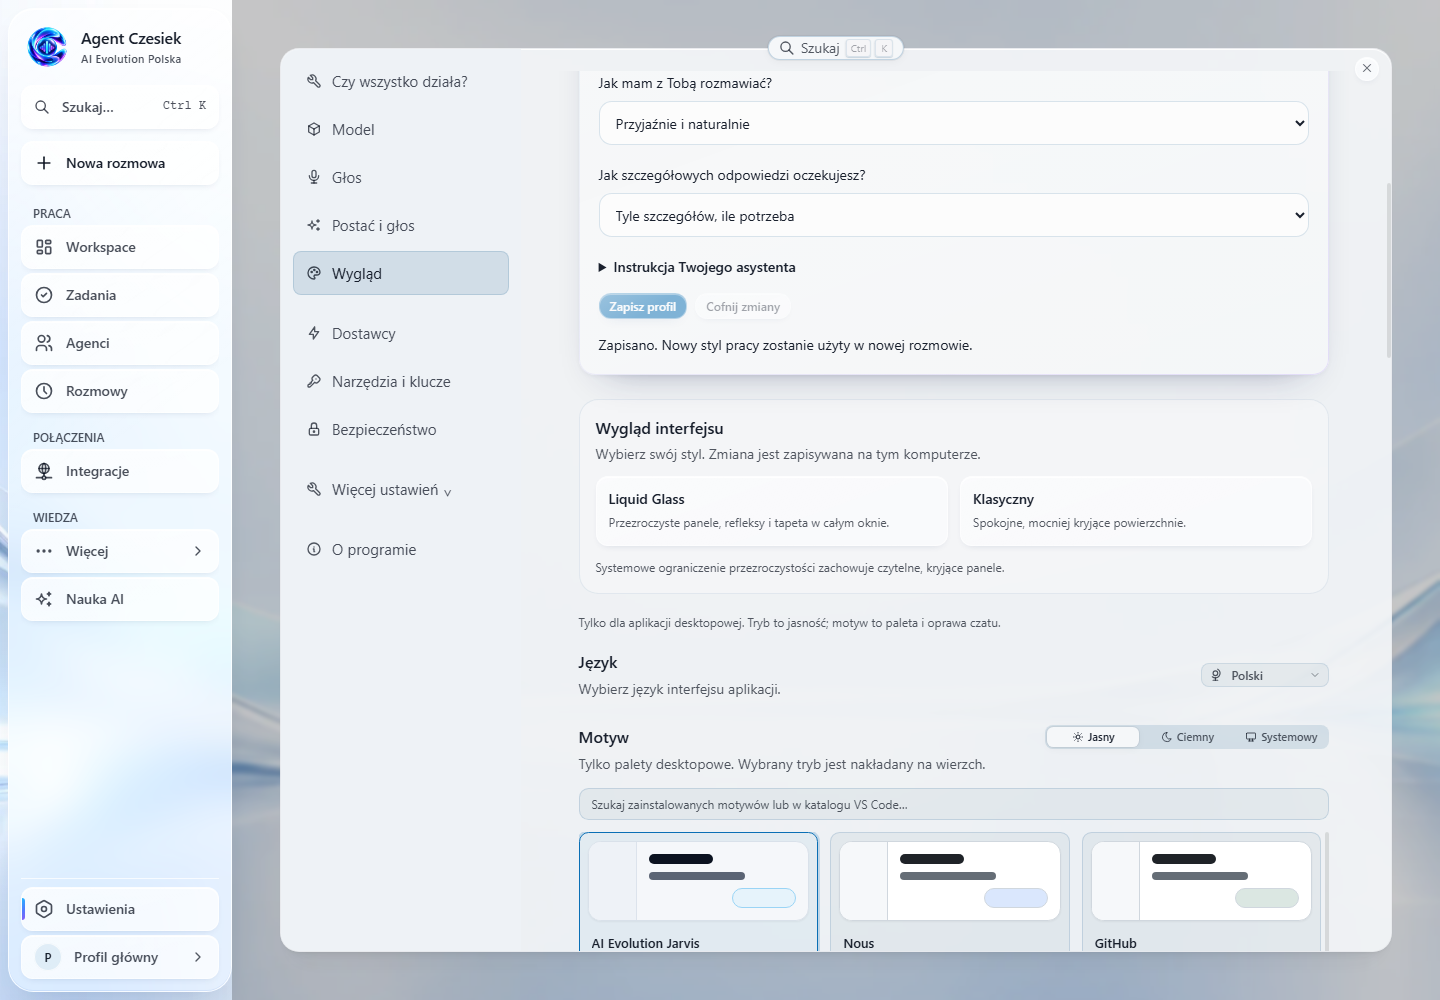
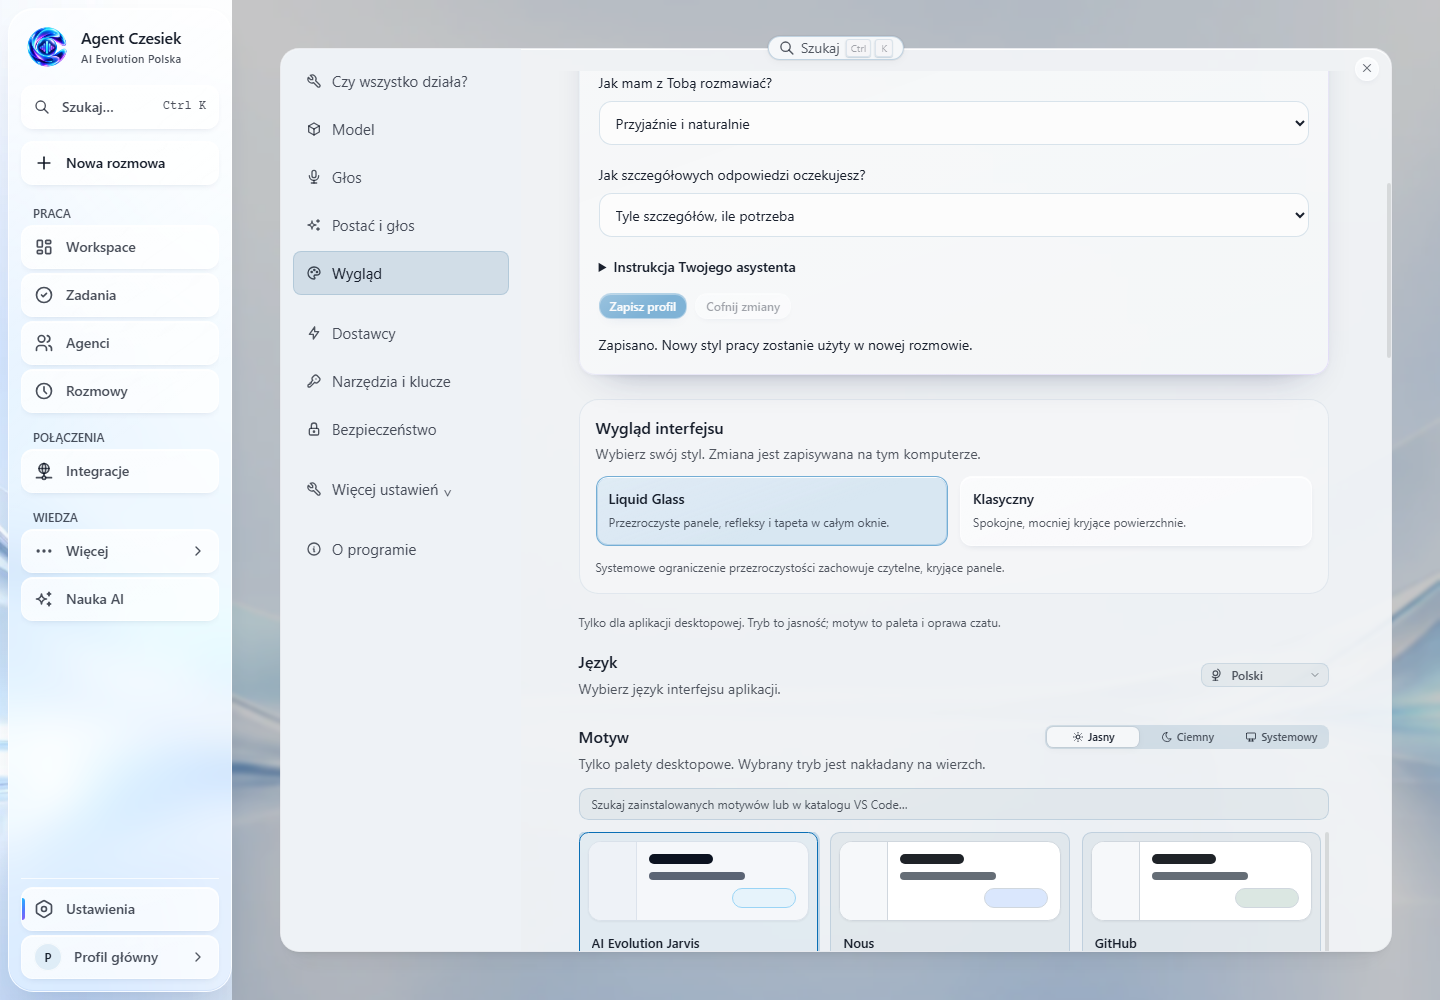
Dopracuj zaznaczenie Liquid Glass i testy konfiguracji botów (#101)
* test(desktop): select fixture languages explicitly across onboarding and shell

* feat(desktop): default to Liquid Glass across workspace and side panels

* test(desktop): defer welcome for preconfigured mock bot profiles

* test(desktop): use live memory files and routed task tools in release scenarios

* fix(desktop): align contained terminal and preserve compaction queue

* test(desktop): stabilize welcome deferral for configured bot profiles

* fix(desktop): keep selected glass options visibly highlighted

* test(desktop): handle nullable mount in terminal geometry assertion

* test(desktop): use scoped bot chat actions and abbreviated session titles

Changed region(s): [[0.4062, 0.465, 0.6562, 0.558]]

diff --git a/apps/desktop/e2e/fixtures.ts b/apps/desktop/e2e/fixtures.ts
@@ -220,7 +220,11 @@ export function writeEnvFile(hermesHome: string, apiKey = 'e2e-mock-key'): void 
  */
 function writeEmptyConfig(hermesHome: string): void {
   const configPath = path.join(hermesHome, 'config.yaml')
-  fs.writeFileSync(configPath, '# Auto-generated by E2E test fixtures — no providers configured\ndisplay:\n  language: en\n', 'utf8')
+  fs.writeFileSync(
+    configPath,
+    '# Auto-generated by E2E test fixtures — no providers configured\ndisplay:\n  language: en\n',
+    'utf8'
+  )
 }
 
 // ─── Env building ──────────────────────────────────────────────────────
@@ -626,10 +630,38 @@ async function dismissProductWelcome(page: Page): Promise<void> {
   }
 
   if (await finishLater.isVisible()) {
-    await finishLater.click()
+    // Locale hydration can remount the wizard between visibility and click.
+    try {
+      await finishLater.click({ timeout: 5_000 })
+    } catch (error) {
+      if (!(await logo.isVisible())) {
+        throw error
+      }
+      await logo.click()
+      await finishLater.click()
+    }
     // Deferring setup opens API settings; feature tests start in Workspace.
     await page.getByRole('button', { name: 'Workspace', exact: true }).click()
   }
+}
+
+/** Configured test bots reuse a real user deferral, not invented completion. */
+export async function deferConfiguredProfileWelcome(page: Page, profiles: string[]): Promise<void> {
+  await page.evaluate(names => {
+    const roots = Object.keys(localStorage).filter(
+      key => key.startsWith('ai-evolution-jarvis-onboarding-v1:') && key.endsWith('::default')
+    )
+    for (const rootKey of roots) {
+      const state = localStorage.getItem(rootKey)
+      if (!state || !JSON.parse(state).skipped) {
+        continue
+      }
+      const prefix = rootKey.slice(0, -'default'.length)
+      for (const name of names) {
+        localStorage.setItem(`${prefix}${encodeURIComponent(name)}`, state)
+      }
+    }
+  }, profiles)
 }
 
 export async function waitForAppReady(
@@ -653,7 +685,12 @@ export async function waitForAppReady(
 
   const chooseLater = page.getByRole('button', { name: /Wybiorę dostawcę później|I'll choose (?:a )?provider later/ })
 
-  if (await chooseLater.waitFor({ state: 'visible', timeout: 8_000 }).then(() => true, () => false)) {
+  if (
+    await chooseLater.waitFor({ state: 'visible', timeout: 8_000 }).then(
+      () => true,
+      () => false
+    )
+  ) {
     await chooseLater.click()
     await page.locator('[data-jarvis-nav-view="jarvis"]').click()
   }
@@ -665,19 +702,11 @@ export async function waitForAppReady(
   const profilesDir = path.join(fixture.sandbox.hermesHome, 'profiles')
 
   const configuredProfiles = fs.existsSync(profilesDir)
-    ? fs.readdirSync(profilesDir, { withFileTypes: true }).filter(entry => entry.isDirectory()).map(entry => entry.name)
+    ? fs
+        .readdirSync(profilesDir, { withFileTypes: true })
+        .filter(entry => entry.isDirectory())
+        .map(entry => entry.name)
     : []
-
-  await page.evaluate(profiles => {
-    const rootKey = 'ai-evolution-jarvis-onboarding-v1:local::default'
-    const deferredState = localStorage.getItem(rootKey)
-
-    if (!deferredState) {return}
-
-    for (const profile of profiles) {
-      localStorage.setItem(`ai-evolution-jarvis-onboarding-v1:local::${encodeURIComponent(profile)}`, deferredState)
-    }
-  }, configuredProfiles)
 
   // First-run setup may select Polish after config loads. Generic scenarios
   // explicitly use English; product scenarios pass Polish here.
@@ -691,6 +720,9 @@ export async function waitForAppReady(
     await page.waitForFunction(language => document.documentElement.lang === language, expectedLanguage)
     await page.locator('[data-jarvis-nav-view="jarvis"]').click()
   }
+
+  await dismissProductWelcome(page)
+  await deferConfiguredProfileWelcome(page, configuredProfiles)
 
   // Now poll until no full-screen overlay covers the viewport center.
   // elementFromPoint returns the topmost element at a point — if it's part
@@ -812,7 +844,8 @@ export async function waitForBootFailure(page: Page, timeoutMs = 60_000): Promis
         text.includes('Connection settings')
 
       // The error toast / notification that fires on failDesktopBoot().
-    const hasErrorToast = text.includes('Desktop boot failed') || text.includes('Uruchomienie aplikacji nie powiodło się')
+      const hasErrorToast =
+        text.includes('Desktop boot failed') || text.includes('Uruchomienie aplikacji nie powiodło się')
 
       return hasFailureUI || hasErrorToast
     },

diff --git a/apps/desktop/e2e/correction-session-switch.spec.ts b/apps/desktop/e2e/correction-session-switch.spec.ts
@@ -60,7 +60,7 @@ async function waitForTranscriptText(page: Page, text: string): Promise<void> {
       return (active?.querySelector('[data-slot="aui_thread-viewport"]')?.textContent ?? '').includes(expected)
     },
     [text, SURFACE] as [string, string],
-    { timeout: 30_000 },
+    { timeout: 30_000 }
   )
 }
 
@@ -80,7 +80,7 @@ async function textNodeOccurrences(page: Page, text: string): Promise<number> {
       }
       return count
     },
-    [text, SURFACE] as [string, string],
+    [text, SURFACE] as [string, string]
   )
 }
 
@@ -103,7 +103,7 @@ async function transcriptMessageOrder(page: Page): Promise<string[]> {
     if (!viewport) return []
 
     return Array.from(
-      viewport.querySelectorAll<HTMLElement>('[data-role="user"], [data-role="assistant"], [data-role="system"]'),
+      viewport.querySelectorAll<HTMLElement>('[data-role="user"], [data-role="assistant"], [data-role="system"]')
     )
       .map(message => message.textContent?.trim() ?? '')
       .filter(Boolean)
@@ -127,12 +127,17 @@ async function openFreshDraft(page: Page, priorSessionText: string): Promise<voi
       return surfaces.length > 0 && !transcript.includes(priorText)
     },
     [priorSessionText, SURFACE] as [string, string],
-    { timeout: 15_000 },
+    { timeout: 15_000 }
   )
 }
 
 async function openSidebarSession(page: Page, sidebarText: string, expectedTranscriptText: string): Promise<void> {
-  const row = page.locator('[data-slot="sidebar"] button').filter({ hasText: sidebarText }).first()
+  // Narrow rails abbreviate titles. The unique prompt prefix selects the row;
+  // the full transcript below still verifies the intended session.
+  const row = page
+    .locator('[data-slot="sidebar"] button')
+    .filter({ hasText: sidebarText.slice(0, 40) })
+    .first()
   await row.waitFor({ state: 'visible', timeout: 30_000 })
   await row.click()
   await waitForTranscriptText(page, expectedTranscriptText)
@@ -175,7 +180,7 @@ test.describe('correction session switch', () => {
 
   test.beforeEach(async () => {
     fixture = await setupMockBackend({
-      mockServer: { holdFirstStreamForPrompt: INFERENCE_SWITCH_TRIGGER },
+      mockServer: { holdFirstStreamForPrompt: INFERENCE_SWITCH_TRIGGER }
     })
     await waitForAppReady(fixture, 120_000)
   })
@@ -223,7 +228,7 @@ test.describe('correction session switch', () => {
     await expect
       .poll(async () => relevantOrder(await transcriptTextOrder(page)), {
         message: 'correction should stay in place after the warm resume',
-        timeout: 30_000,
+        timeout: 30_000
       })
       .toEqual(orderBeforeSwitch)
     await page.screenshot({ path: testInfo.outputPath('correction-after-warm-resume.png') })
@@ -238,7 +243,7 @@ test.describe('correction session switch', () => {
     await expect
       .poll(async () => steerTurnOrder(await transcriptMessageOrder(page)), {
         message: 'steered turn should settle as prompt → correction → corrected reply',
-        timeout: 30_000,
+        timeout: 30_000
       })
       .toEqual([ORIGINAL_PROMPT, CORRECTION, CORRECTED_REPLY])
   })

diff --git a/apps/desktop/e2e/bot-mode-row-click-mirrors-registry.spec.ts b/apps/desktop/e2e/bot-mode-row-click-mirrors-registry.spec.ts
@@ -113,8 +113,14 @@ test('a bot row click lands on the Bot Chat the row previews, not a side thread'
 
   await openBots(page)
 
-  const alphaRow = page.getByRole('button', { name: /^alpha\b/i }).filter({ visible: true }).first()
-  const betaRow = page.getByRole('button', { name: /^beta\b/i }).filter({ visible: true }).first()
+  const alphaRow = page
+    .getByRole('button', { name: /^alpha\b/i })
+    .filter({ visible: true })
+    .first()
+  const betaRow = page
+    .getByRole('button', { name: /^beta\b/i })
+    .filter({ visible: true })
+    .first()
   await expect(alphaRow).toBeVisible({ timeout: 30_000 })
   await expect(betaRow).toBeVisible({ timeout: 30_000 })
   const seededTurn = page.getByText('Hello alpha', { exact: true }).filter({ visible: true })
@@ -125,9 +131,14 @@ test('a bot row click lands on the Bot Chat the row previews, not a side thread'
   )
   await settle(page, 15_000)
 
-  // A `+` side thread for alpha, with a real turn so it is a persisted tile.
-  await page.keyboard.press('Control+t')
-  const composer = page.locator('[data-slot="composer-root"] [contenteditable="true"]').filter({ visible: true }).first()
+  // The bot menu pins the side chat to alpha's gateway/profile. The global
+  // new-tab shortcut can create a regular default-profile conversation.
+  await alphaRow.click({ button: 'right' })
+  await page.getByRole('menuitem', { name: 'New chat with this bot' }).click()
+  const composer = page
+    .locator('[data-slot="composer-root"] [contenteditable="true"]')
+    .filter({ visible: true })
+    .first()
   await expect(composer).toBeVisible({ timeout: 15_000 })
   await composer.click()
   await composer.fill('hello alpha thread')
@@ -148,10 +159,11 @@ test('a bot row click lands on the Bot Chat the row previews, not a side thread'
   await expect
     .poll(
       () =>
-        page.evaluate(() =>
-          [...document.querySelectorAll<HTMLElement>('[data-zone-tabstrip="grp-main"] [data-tree-tab]')]
-            .map(element => element.getAttribute('data-tree-tab') ?? '')
-            .filter(id => id.startsWith('session-tile:')).length
+        page.evaluate(
+          () =>
+            [...document.querySelectorAll<HTMLElement>('[data-zone-tabstrip="grp-main"] [data-tree-tab]')]
+              .map(element => element.getAttribute('data-tree-tab') ?? '')
+              .filter(id => id.startsWith('session-tile:')).length
         ),
       { timeout: 15_000 }
     )

diff --git a/apps/desktop/e2e/group-to-local-bot-handoff.spec.ts b/apps/desktop/e2e/group-to-local-bot-handoff.spec.ts
@@ -1,10 +1,13 @@
-import { type MockBackendFixture, setupMockBackend, waitForAppReady } from './fixtures'
+import { deferConfiguredProfileWelcome, type MockBackendFixture, setupMockBackend, waitForAppReady } from './fixtures'
 import { expect, test } from './test'
 
 let fixture: MockBackendFixture | null = null
 
 async function openBots(page: MockBackendFixture['page']): Promise<void> {
-  const tab = page.getByRole('button', { name: 'Bots', exact: true }).or(page.getByRole('tab', { name: 'Bots', exact: true })).first()
+  const tab = page
+    .getByRole('button', { name: 'Bots', exact: true })
+    .or(page.getByRole('tab', { name: 'Bots', exact: true }))
+    .first()
   await tab.click()
   await expect(page.getByRole('button', { name: 'New bot or group chat' })).toBeVisible()
 }
@@ -35,6 +38,8 @@ test('local bot replaces an open group main workspace', async () => {
   test.setTimeout(240_000)
   const page = fixture!.page
 
+  await deferConfiguredProfileWelcome(page, ['programmer', 'reviewer'])
+
   await openBots(page)
   await createAgent(page, 'programmer', 'Programmer')
   await createAgent(page, 'reviewer', 'Reviewer')
@@ -57,7 +62,10 @@ test('local bot replaces an open group main workspace', async () => {
   await expect(groupTab).toHaveAttribute('aria-selected', 'true')
   await expect(groupComposer).toBeVisible()
 
-  const programmer = page.getByRole('button', { name: /^Programmer\b/ }).filter({ visible: true }).first()
+  const programmer = page
+    .getByRole('button', { name: /^Programmer\b/ })
+    .filter({ visible: true })
+    .first()
   await programmer.click()
 
   // The bot's canonical chat opens INTO the main workspace pane (post
@@ -76,5 +84,7 @@ test('local bot replaces an open group main workspace', async () => {
   // around indefinitely (see bot-mode-row-click-mirrors-registry's settle()),
   // so its presence no longer distinguishes a stranded handoff. The splash
   // and composer above are the proof the bot's chat took the workspace.
-  await expect(page.locator('[data-slot="composer-root"] [contenteditable="true"]').filter({ visible: true }).first()).toBeVisible()
+  await expect(
+    page.locator('[data-slot="composer-root"] [contenteditable="true"]').filter({ visible: true }).first()
+  ).toBeVisible()
 })

diff --git a/apps/desktop/e2e/bot-mode-tab-shows-bot-name.spec.ts b/apps/desktop/e2e/bot-mode-tab-shows-bot-name.spec.ts
@@ -110,7 +110,10 @@ test("an open Bot Chat's tab reads the bot's name, not the canonical 'Bot Chat' 
 
   await openBots(page)
 
-  const alphaRow = page.getByRole('button', { name: /^alpha\b/i }).filter({ visible: true }).first()
+  const alphaRow = page
+    .getByRole('button', { name: /^alpha\b/i })
+    .filter({ visible: true })
+    .first()
   await expect(alphaRow).toBeVisible({ timeout: 30_000 })
 
   await openUntil(
@@ -123,8 +126,12 @@ test("an open Bot Chat's tab reads the bot's name, not the canonical 'Bot Chat' 
 
   // A `+` side thread beside the Bot Chat gives the main zone a tab strip —
   // the surface where every bot chat used to read "Bot Chat".
-  await page.keyboard.press('Control+t')
-  const composer = page.locator('[data-slot="composer-root"] [contenteditable="true"]').filter({ visible: true }).first()
+  await alphaRow.click({ button: 'right' })
+  await page.getByRole('menuitem', { name: 'New chat with this bot' }).click()
+  const composer = page
+    .locator('[data-slot="composer-root"] [contenteditable="true"]')
+    .filter({ visible: true })
+    .first()
   await expect(composer).toBeVisible({ timeout: 15_000 })
   await composer.click()
   await composer.fill('hello alpha thread')

diff --git a/apps/desktop/src/app/right-sidebar/terminal/persistent.test.tsx b/apps/desktop/src/app/right-sidebar/terminal/persistent.test.tsx
@@ -153,11 +153,11 @@ describe('PersistentTerminal rect tracking', () => {
       return this.hasAttribute('data-persistent-terminal') ? containingBlock : null
     })
     mount.render(<Harness />)
-    const host = mount.container.querySelector<HTMLElement>('[data-persistent-terminal]')!
-    expect(host.style.top).toBe('20px')
-    expect(host.style.left).toBe('20px')
-    expect(host.style.width).toBe('200px')
-    expect(host.style.height).toBe('100px')
+    const host = mount.container?.querySelector<HTMLElement>('[data-persistent-terminal]')
+    expect(host?.style.top).toBe('20px')
+    expect(host?.style.left).toBe('20px')
+    expect(host?.style.width).toBe('200px')
+    expect(host?.style.height).toBe('100px')
   })
 
   it('settles after rect changes instead of polling forever', () => {

diff --git a/apps/desktop/src/app/jarvis/liquid-glass.css b/apps/desktop/src/app/jarvis/liquid-glass.css
@@ -123,6 +123,14 @@
   border-color: color-mix(in srgb, var(--ui-accent) 25%, var(--glass-border));
 }
 
+:root[data-czesiek-material='liquid'] [data-jarvis-shell] button[role='radio'][aria-checked='true'] {
+  border-color: color-mix(in srgb, var(--ui-accent) 55%, var(--glass-border));
+  background-color: color-mix(in srgb, var(--ui-accent) 14%, var(--liquid-control));
+  box-shadow:
+    inset 0 1px 0 var(--glass-highlight),
+    inset 0 0 0 1px color-mix(in srgb, var(--ui-accent) 18%, transparent);
+}
+
 :root[data-czesiek-material='liquid'] [data-jarvis-shell] [data-slot='button'][data-variant='default'] {
   border: 1px solid rgb(255 255 255 / 0.42);
   border-radius: 12px;
